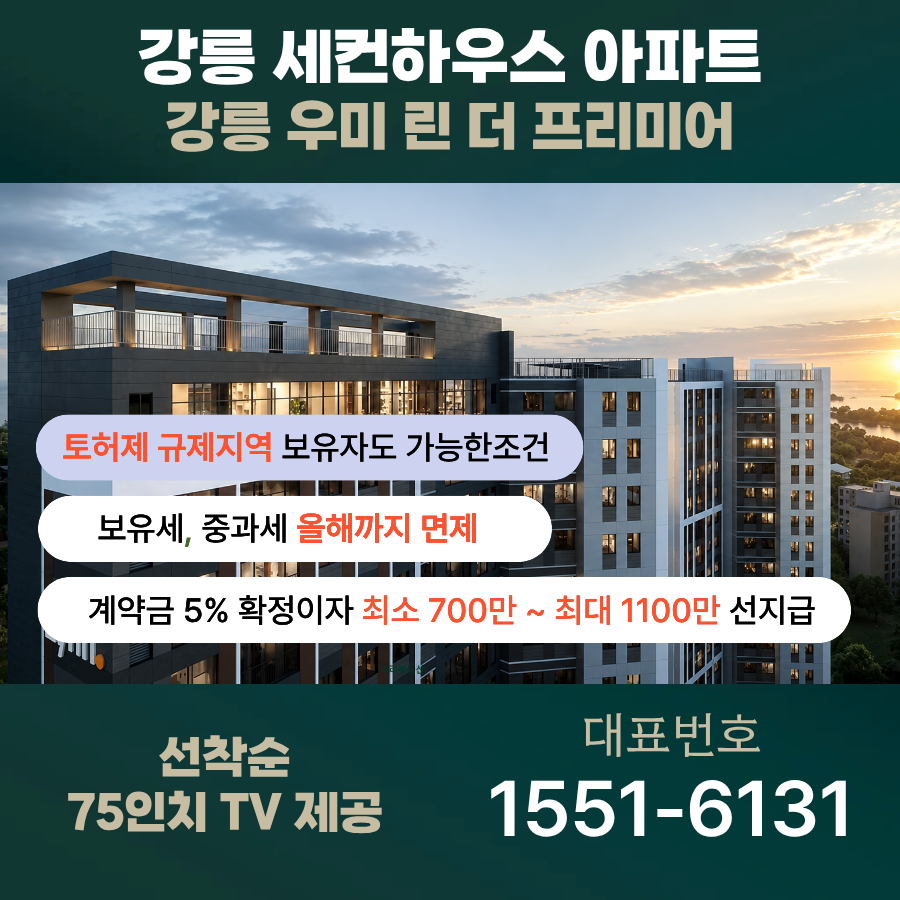
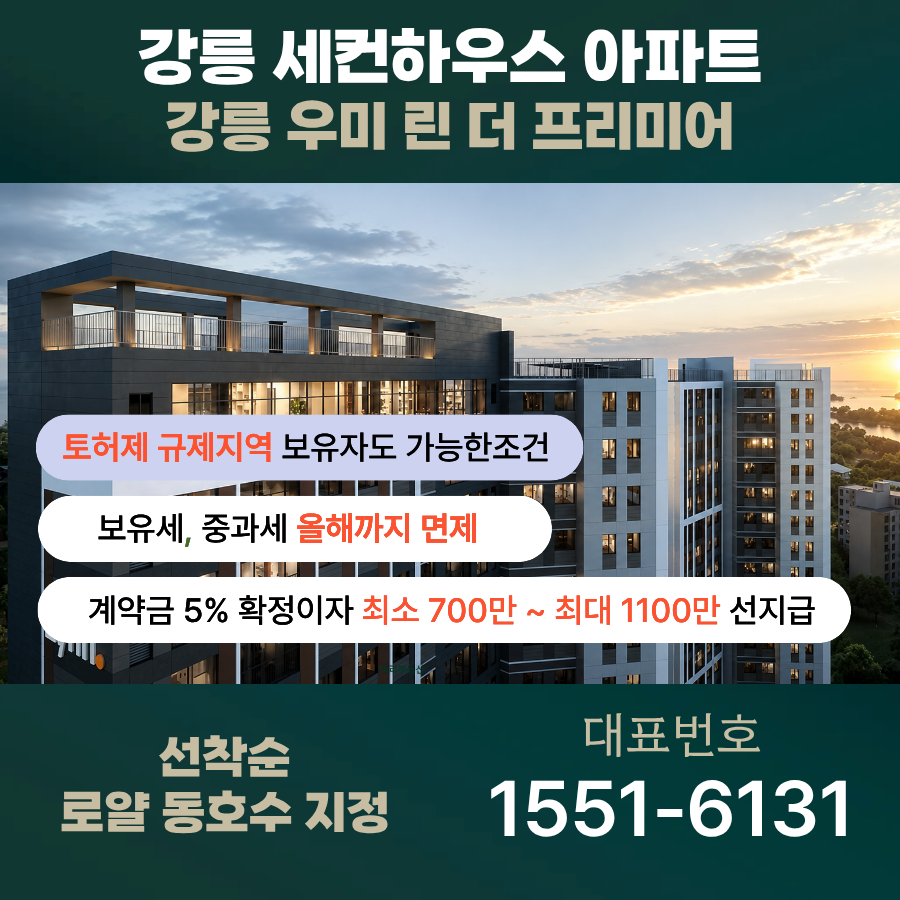
style: 75인치 TV 혜택 삭제 및 하단 배너 이미지 변경

Changed region(s): [[0.0622, 0.8711, 0.4356, 0.9333]]

diff --git a/gangneung-umilynn.html b/gangneung-umilynn.html
@@ -1265,7 +1265,6 @@
 
       <div class="hero-benefits">
         <p class="benefit-pill pill-money">지금 계약 시 계약금 확정이자<br>최소 700만원 ~ 최대 1,100만원 지급</p>
-        <p class="benefit-pill pill-gift">🎁 75인치 대형 TV 증정</p>
       </div>
 
       <div class="hero-faq">

diff --git a/index.html b/index.html
@@ -1265,7 +1265,6 @@
 
       <div class="hero-benefits">
         <p class="benefit-pill pill-money">지금 계약 시 계약금 확정이자<br>최소 700만원 ~ 최대 1,100만원 지급</p>
-        <p class="benefit-pill pill-gift">🎁 75인치 대형 TV 증정</p>
       </div>
 
       <div class="hero-faq">
